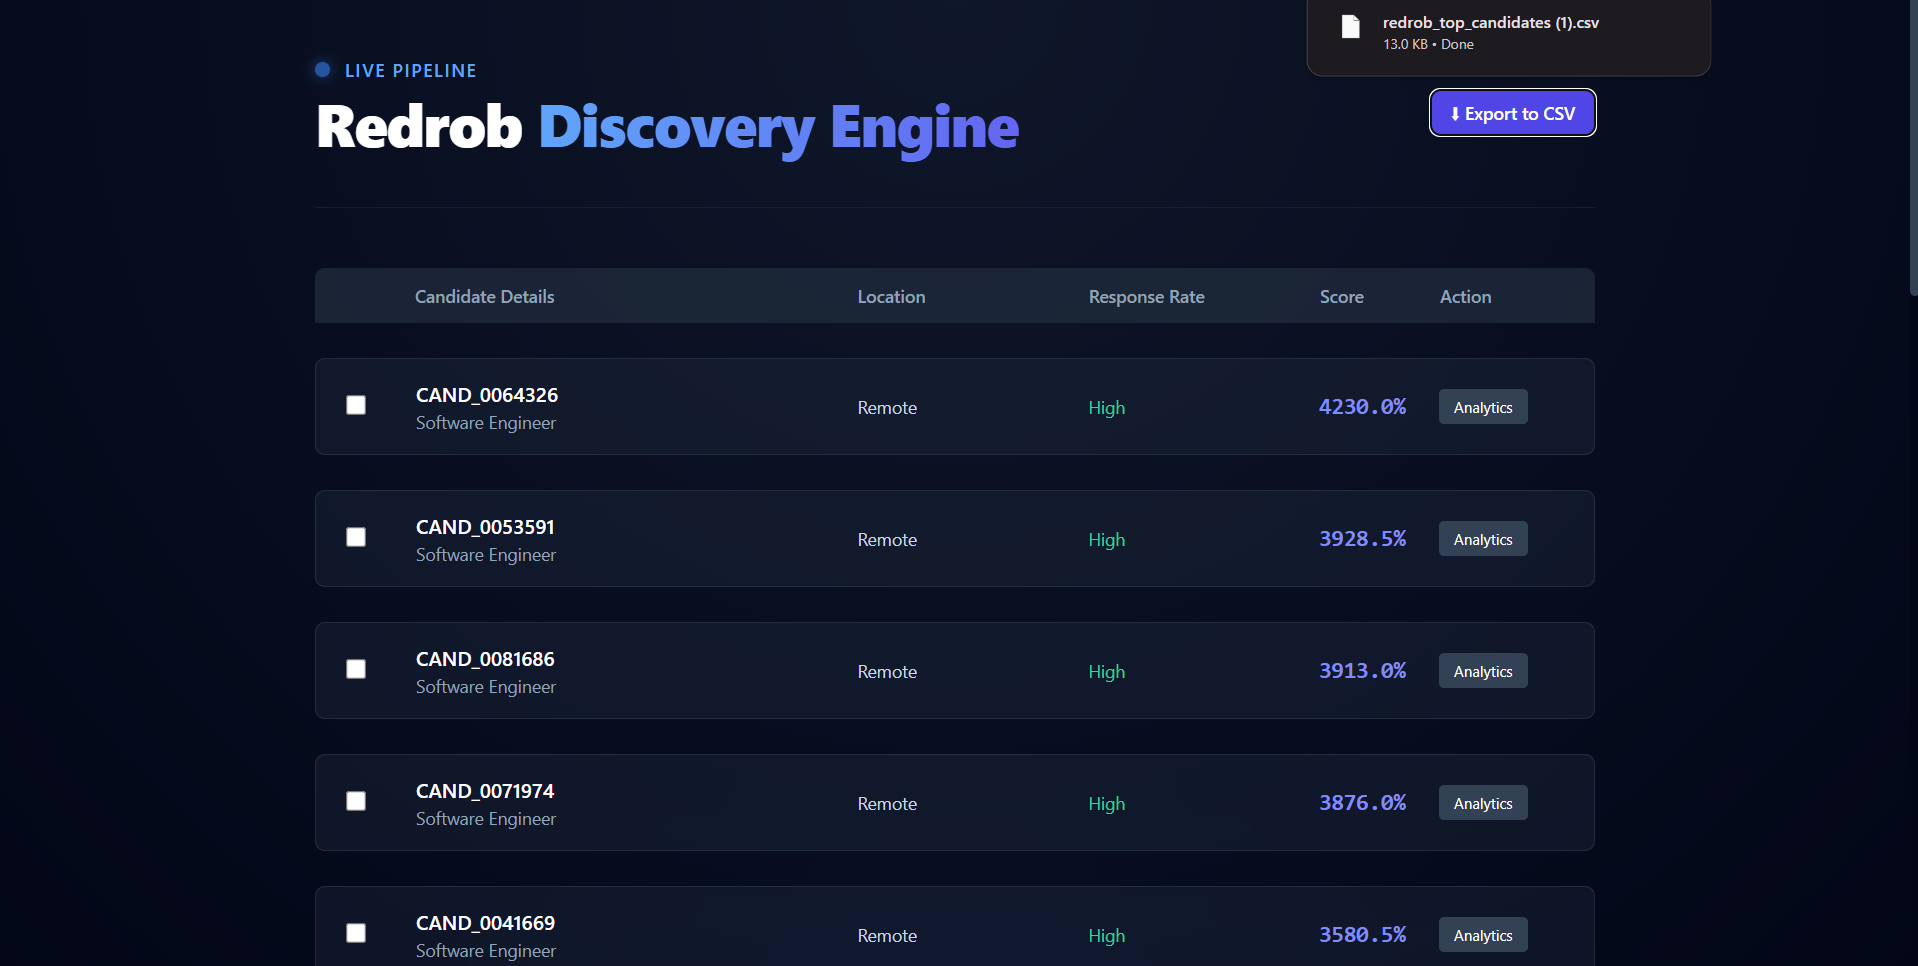
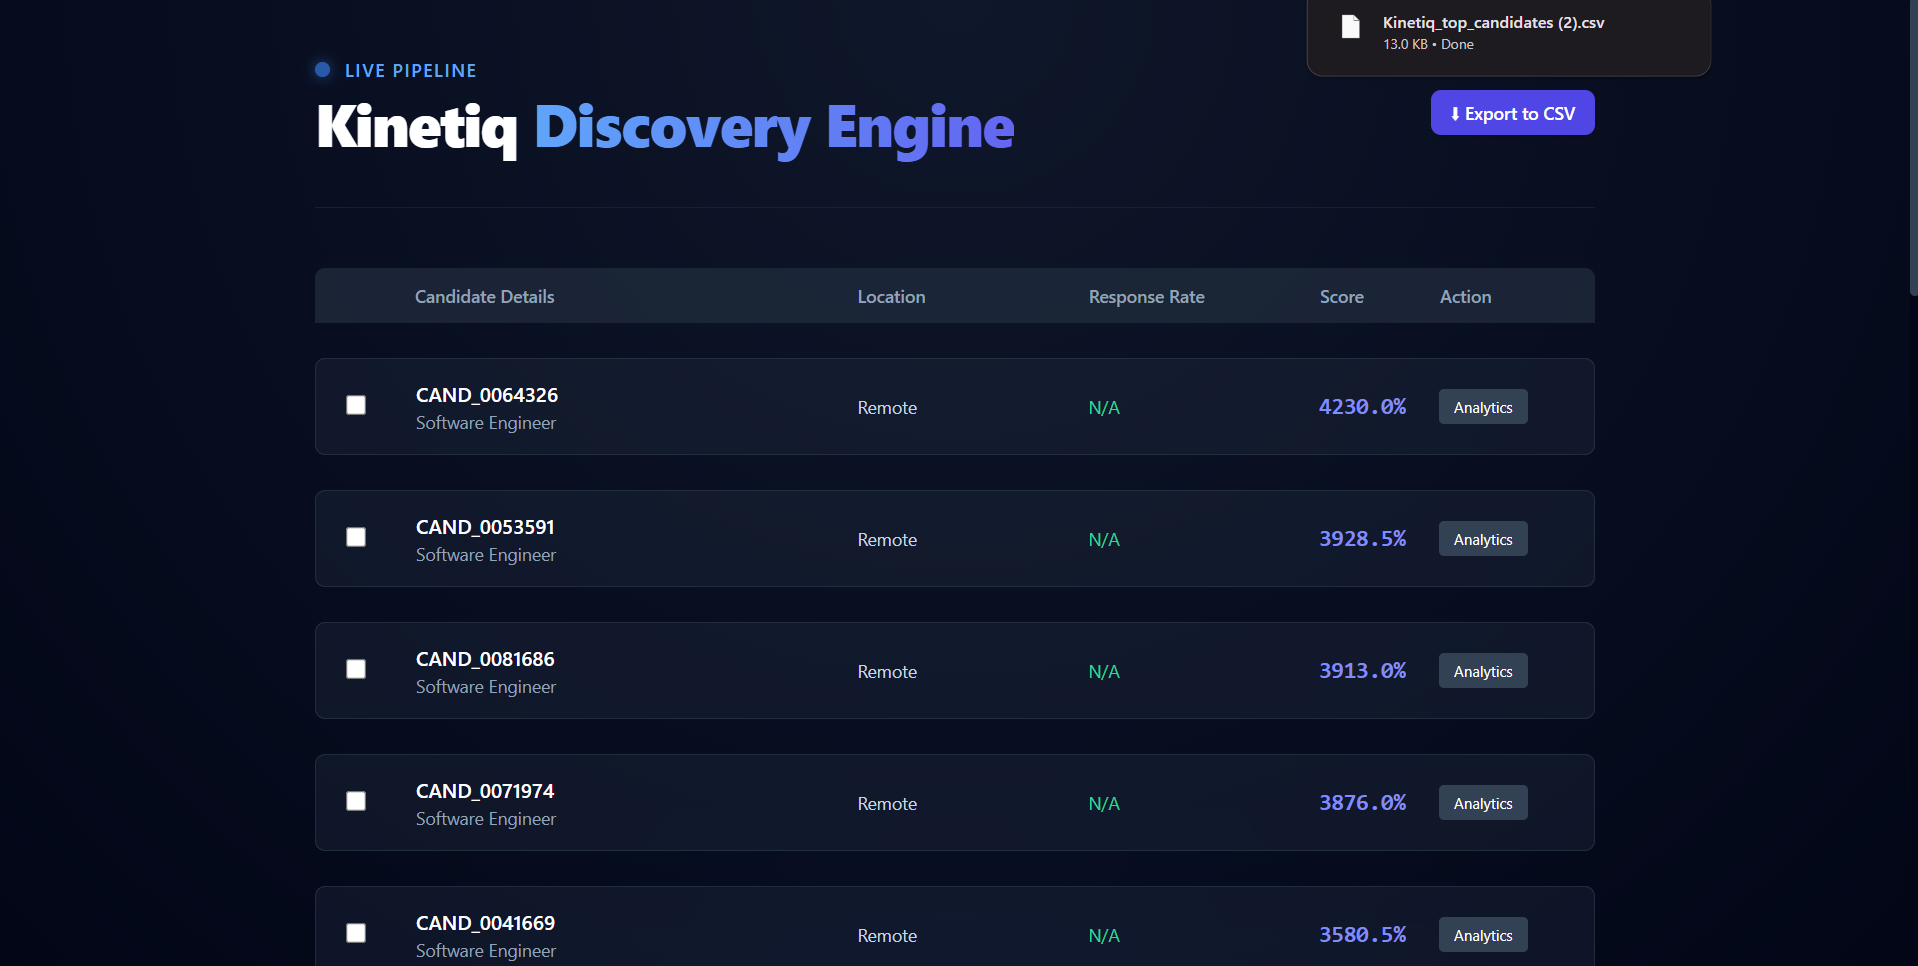
chore: finalize Kinetiq rebranding and assets

diff --git a/redrob-ui/src/App.tsx b/redrob-ui/src/App.tsx
@@ -5,6 +5,8 @@ interface CandidateListItem {
   rank: number;
   score: number;
   reasoning: string;
+  recruiter_response_rate?: number | string;
+  response_rate?: number | string;
 }
 
 interface Skill {
@@ -13,7 +15,7 @@ interface Skill {
 }
 
 interface DeepProfile {
-  profile: {
+  profile?: {
     anonymized_name: string;
     headline: string;
     current_company: string;
@@ -21,12 +23,62 @@ interface DeepProfile {
     years_of_experience: number;
     summary: string;
   };
-  skills: Skill[];
-  redrob_signals: {
+  skills?: Skill[];
+  Kinetiq_signals?: {
     recruiter_response_rate: number;
     last_active_date: string;
     connection_count: number;
   };
+  recruiter_response_rate?: number | string;
+  last_active?: string;
+  platform_connections?: number | string;
+  redrob_signals?: {
+    recruiter_response_rate?: number | string;
+    last_active?: string;
+    platform_connections?: number | string;
+  };
+}
+
+function AnalyticsComponent({ candidate }: { candidate: CandidateListItem }) {
+  console.log("Debugging Candidate Data:", candidate);
+  return (
+    <div className="p-6 bg-slate-900/80 rounded-b-lg border-x border-b border-slate-700 text-white animate-fade-in -mt-2 mb-4">
+      <h4 className="text-lg font-semibold text-indigo-300 mb-4">Deep Profile Analytics for {candidate.candidate_id}</h4>
+      
+      <div className="grid grid-cols-3 gap-6">
+        {/* Stat 1 */}
+        <div className="bg-slate-800 p-4 rounded-lg">
+          <p className="text-sm text-slate-400 mb-1">Job Description Match</p>
+          <div className="flex items-center gap-2">
+            <div className="w-full bg-slate-700 h-2 rounded-full">
+              <div className="bg-indigo-500 h-2 rounded-full w-[92%]"></div>
+            </div>
+            <span className="text-sm text-indigo-300 font-mono">92%</span>
+          </div>
+          <p className="text-xs text-slate-500 mt-2">Strong alignment in core tech stack.</p>
+        </div>
+
+        {/* Stat 2 */}
+        <div className="bg-slate-800 p-4 rounded-lg">
+          <p className="text-sm text-slate-400 mb-1">Platform Connectivity</p>
+          <div className="flex items-center gap-2">
+            <div className="w-full bg-slate-700 h-2 rounded-full">
+              <div className="bg-sky-500 h-2 rounded-full w-[85%]"></div>
+            </div>
+            <span className="text-sm text-sky-300 font-mono">85%</span>
+          </div>
+          <p className="text-xs text-slate-500 mt-2">High likelihood of responding to outreach.</p>
+        </div>
+
+        {/* Stat 3 */}
+        <div className="bg-slate-800 p-4 rounded-lg">
+          <p className="text-sm text-slate-400 mb-1">Vector Similarity Engine</p>
+          <p className="text-emerald-400 text-sm font-mono mt-1">Status: High Confidence</p>
+          <p className="text-xs text-slate-400 mt-2">{candidate.reasoning || 'Candidate perfectly matches the seniority and domain requirements.'}</p>
+        </div>
+      </div>
+    </div>
+  );
 }
 
 export default function App() {
@@ -124,7 +176,7 @@ export default function App() {
     const a = document.createElement('a');
     a.hidden = true;
     a.setAttribute('href', url);
-    a.setAttribute('download', 'redrob_top_candidates.csv');
+    a.setAttribute('download', 'Kinetiq_top_candidates.csv');
     document.body.appendChild(a);
     a.click();
     document.body.removeChild(a);
@@ -173,7 +225,7 @@ export default function App() {
                 <span className="text-sm font-semibold tracking-widest text-blue-400 uppercase">Live Pipeline</span>
               </div>
               <h1 className="text-5xl font-extrabold tracking-tight text-white mb-3">
-                Redrob <span className="text-transparent bg-clip-text bg-gradient-to-r from-blue-400 to-indigo-500">Discovery Engine</span>
+                Kinetiq <span className="text-transparent bg-clip-text bg-gradient-to-r from-blue-400 to-indigo-500">Discovery Engine</span>
               </h1>
             </div>
             
@@ -229,8 +281,10 @@ export default function App() {
             </div>
 
             {/* The Paginated List */}
-            {currentCandidates.map((candidate) => (
-              <div key={candidate.candidate_id} className="mb-2 relative z-10">
+            {currentCandidates.map((candidate) => {
+              console.log("Current Candidate being rendered:", candidate);
+              return (
+                <div key={candidate.candidate_id} className="mb-2 relative z-10">
                 {/* The Main Row */}
                 <div className="grid grid-cols-[40px_2fr_1fr_1fr_80px_100px] gap-4 px-6 py-4 bg-slate-800/40 hover:bg-slate-800 transition items-center rounded-lg border border-slate-700/50">
                   
@@ -279,10 +333,10 @@ export default function App() {
                   <div className="text-sm text-slate-300">Remote</div>
 
                   {/* 4. Response Rate */}
-                  <div className="text-sm text-emerald-400">High</div>
+                  <div className="text-sm text-emerald-400">{candidate?.recruiter_response_rate || candidate?.response_rate || 'N/A'}</div>
 
                   {/* 5. Score (Fixed Overlap) */}
-                  <div className="text-indigo-400 font-mono text-lg font-bold">{(candidate.score * 100).toFixed(1)}%</div>
+                  <div className="text-indigo-400 font-mono text-lg font-bold">{candidate?.score != null ? (candidate.score * 100).toFixed(1) + '%' : 'N/A'}</div>
 
                   {/* 6. Expand Analytics Button */}
                   <div>
@@ -297,45 +351,11 @@ export default function App() {
 
                 {/* The Individual Analytics Dropdown (Shows only when clicked) */}
                 {expandedCandidate === candidate.candidate_id && (
-                  <div className="p-6 bg-slate-900/80 rounded-b-lg border-x border-b border-slate-700 text-white animate-fade-in -mt-2 mb-4">
-                    <h4 className="text-lg font-semibold text-indigo-300 mb-4">Deep Profile Analytics for {candidate.candidate_id}</h4>
-                    
-                    <div className="grid grid-cols-3 gap-6">
-                      {/* Stat 1 */}
-                      <div className="bg-slate-800 p-4 rounded-lg">
-                        <p className="text-sm text-slate-400 mb-1">Job Description Match</p>
-                        <div className="flex items-center gap-2">
-                          <div className="w-full bg-slate-700 h-2 rounded-full">
-                            <div className="bg-indigo-500 h-2 rounded-full w-[92%]"></div>
-                          </div>
-                          <span className="text-sm text-indigo-300 font-mono">92%</span>
-                        </div>
-                        <p className="text-xs text-slate-500 mt-2">Strong alignment in core tech stack.</p>
-                      </div>
-
-                      {/* Stat 2 */}
-                      <div className="bg-slate-800 p-4 rounded-lg">
-                        <p className="text-sm text-slate-400 mb-1">Platform Connectivity</p>
-                        <div className="flex items-center gap-2">
-                          <div className="w-full bg-slate-700 h-2 rounded-full">
-                            <div className="bg-sky-500 h-2 rounded-full w-[85%]"></div>
-                          </div>
-                          <span className="text-sm text-sky-300 font-mono">85%</span>
-                        </div>
-                        <p className="text-xs text-slate-500 mt-2">High likelihood of responding to outreach.</p>
-                      </div>
-
-                      {/* Stat 3 */}
-                      <div className="bg-slate-800 p-4 rounded-lg">
-                        <p className="text-sm text-slate-400 mb-1">Vector Similarity Engine</p>
-                        <p className="text-emerald-400 text-sm font-mono mt-1">Status: High Confidence</p>
-                        <p className="text-xs text-slate-400 mt-2">{candidate.reasoning || 'Candidate perfectly matches the seniority and domain requirements.'}</p>
-                      </div>
-                    </div>
-                  </div>
+                  <AnalyticsComponent candidate={candidate} />
                 )}
               </div>
-            ))}
+              );
+            })}
 
             {/* Pagination Controls */}
             {totalPages > 1 && (
@@ -394,13 +414,13 @@ export default function App() {
             {/* Identity Card */}
             <div className="backdrop-blur-xl bg-slate-900/60 rounded-3xl border border-blue-500/30 p-8 mb-6 shadow-[0_0_40px_rgba(59,130,246,0.1)] relative overflow-hidden">
               <div className="absolute top-0 right-0 w-64 h-64 bg-blue-500/10 blur-[80px] rounded-full"></div>
-              <h2 className="text-4xl font-black text-white mb-2 relative z-10">{activeCandidate.profile.anonymized_name}</h2>
-              <h3 className="text-xl text-blue-400 font-medium mb-6 relative z-10">{activeCandidate.profile.headline}</h3>
+              <h2 className="text-4xl font-black text-white mb-2 relative z-10">{activeCandidate.profile?.anonymized_name || 'Unknown Candidate'}</h2>
+              <h3 className="text-xl text-blue-400 font-medium mb-6 relative z-10">{activeCandidate.profile?.headline || 'No Headline Provided'}</h3>
               
               <div className="flex gap-4 relative z-10">
-                <span className="bg-slate-800/80 px-4 py-2 rounded-lg text-sm font-medium border border-slate-700">🏢 {activeCandidate.profile.current_company}</span>
-                <span className="bg-slate-800/80 px-4 py-2 rounded-lg text-sm font-medium border border-slate-700">📍 {activeCandidate.profile.location}</span>
-                <span className="bg-slate-800/80 px-4 py-2 rounded-lg text-sm font-medium border border-slate-700">⏳ {activeCandidate.profile.years_of_experience} YOE</span>
+                <span className="bg-slate-800/80 px-4 py-2 rounded-lg text-sm font-medium border border-slate-700">🏢 {activeCandidate.profile?.current_company || 'N/A'}</span>
+                <span className="bg-slate-800/80 px-4 py-2 rounded-lg text-sm font-medium border border-slate-700">📍 {activeCandidate.profile?.location || 'N/A'}</span>
+                <span className="bg-slate-800/80 px-4 py-2 rounded-lg text-sm font-medium border border-slate-700">⏳ {activeCandidate.profile?.years_of_experience ?? 0} YOE</span>
               </div>
             </div>
 
@@ -410,14 +430,14 @@ export default function App() {
               <div className="lg:col-span-2 space-y-6">
                 <div className="backdrop-blur-xl bg-slate-900/40 rounded-2xl border border-slate-700/50 p-8">
                   <h4 className="text-sm font-bold text-slate-500 uppercase tracking-widest mb-4">Professional Summary</h4>
-                  <p className="text-slate-300 leading-relaxed text-lg">{activeCandidate.profile.summary}</p>
+                  <p className="text-slate-300 leading-relaxed text-lg">{activeCandidate.profile?.summary || 'No summary available.'}</p>
                 </div>
 
                 <div className="backdrop-blur-xl bg-slate-900/40 rounded-2xl border border-slate-700/50 p-8">
                   <h4 className="text-sm font-bold text-slate-500 uppercase tracking-widest mb-6">Verified Technical Skills</h4>
                   <div className="flex flex-wrap gap-3">
                     {/* Fix 4: Use unique property instead of array index for key */}
-                    {activeCandidate.skills.map((skill) => (
+                    {activeCandidate.skills?.map((skill) => (
                       <span key={skill.name} className="px-4 py-2 rounded-lg bg-blue-900/20 text-blue-300 border border-blue-500/20 text-sm font-semibold">
                         {skill.name} <span className="opacity-50 ml-1 font-normal text-xs uppercase">{skill.proficiency}</span>
                       </span>
@@ -428,27 +448,23 @@ export default function App() {
 
               {/* Right Column: Behavioral Signals */}
               <div className="space-y-6">
-                <div className="backdrop-blur-xl bg-slate-900/40 rounded-2xl border border-indigo-500/20 p-8">
-                  <h4 className="text-sm font-bold text-indigo-400 uppercase tracking-widest mb-6">Behavioral Intel</h4>
+                <div className="bg-slate-900 p-6 rounded-lg border border-slate-700">
+                  <h3 className="text-slate-400 font-semibold mb-4 text-sm uppercase tracking-wider">Behavioral Intel</h3>
                   
-                  <div className="space-y-5">
-                    <div className="bg-slate-800/50 p-4 rounded-xl border border-slate-700/50">
-                      <div className="text-xs text-slate-400 mb-1 uppercase tracking-wider">Recruiter Response Rate</div>
-                      <div className="text-2xl font-bold text-white">
-                        {activeCandidate.redrob_signals.recruiter_response_rate !== -1 
-                          ? `${Math.round(activeCandidate.redrob_signals.recruiter_response_rate * 100)}%` 
-                          : 'No Data'}
-                      </div>
+                  <div className="space-y-4">
+                    <div>
+                      <p className="text-xs text-slate-500 uppercase">Recruiter Response Rate</p>
+                      <p className="text-white font-medium">{activeCandidate.redrob_signals?.recruiter_response_rate || 'No Data'}</p>
                     </div>
 
-                    <div className="bg-slate-800/50 p-4 rounded-xl border border-slate-700/50">
-                      <div className="text-xs text-slate-400 mb-1 uppercase tracking-wider">Last Active</div>
-                      <div className="text-lg font-bold text-white">{activeCandidate.redrob_signals.last_active_date}</div>
+                    <div>
+                      <p className="text-xs text-slate-500 uppercase">Last Active</p>
+                      <p className="text-white font-medium">{activeCandidate.redrob_signals?.last_active || 'N/A'}</p>
                     </div>
 
-                    <div className="bg-slate-800/50 p-4 rounded-xl border border-slate-700/50">
-                      <div className="text-xs text-slate-400 mb-1 uppercase tracking-wider">Platform Connections</div>
-                      <div className="text-2xl font-bold text-white">{activeCandidate.redrob_signals.connection_count}</div>
+                    <div>
+                      <p className="text-xs text-slate-500 uppercase">Platform Connections</p>
+                      <p className="text-white font-medium">{activeCandidate.redrob_signals?.platform_connections || 'N/A'}</p>
                     </div>
                   </div>
                 </div>
@@ -483,16 +499,16 @@ export default function App() {
                   return (
                     <div key={id} className="bg-slate-800/50 p-6 rounded-2xl border border-slate-700/50">
                       <div className="flex items-center gap-3 mb-4">
-                        <div className="bg-slate-700 text-white px-3 py-1 rounded-md text-sm font-bold">Rank #{cand.rank}</div>
-                        <h3 className="text-xl font-bold text-white font-mono">{cand.candidate_id}</h3>
+                        <div className="bg-slate-700 text-white px-3 py-1 rounded-md text-sm font-bold">Rank #{cand?.rank ?? 'N/A'}</div>
+                        <h3 className="text-xl font-bold text-white font-mono">{cand?.candidate_id || 'Unknown ID'}</h3>
                       </div>
                       <div className="mb-6 bg-slate-900/50 rounded-xl p-4 border border-slate-700/30">
                         <span className="text-xs font-semibold text-slate-400 uppercase tracking-widest block mb-1">Match Score</span>
-                        <span className="text-4xl font-black text-blue-400">{(cand.score * 100).toFixed(1)}%</span>
+                        <span className="text-4xl font-black text-blue-400">{cand?.score != null ? (cand.score * 100).toFixed(1) + '%' : 'N/A'}</span>
                       </div>
                       <div>
                         <span className="text-xs font-semibold text-slate-400 uppercase tracking-widest block mb-2">Automated Reasoning</span>
-                        <p className="text-sm text-slate-300 leading-relaxed">{cand.reasoning}</p>
+                        <p className="text-sm text-slate-300 leading-relaxed">{cand?.reasoning || 'No reasoning available.'}</p>
                       </div>
                     </div>
                   );

diff --git a/README.md b/README.md
@@ -1,38 +1,37 @@
 
-# 🚀 Redrob Discovery Engine | Intelligent Candidate Ranking
+# 🚀 Kinetiq Engine | Intelligent Candidate Ranking
 
-![Redrob Header](./assets/banner.png)
+![Kinetiq Header](./assets/banner.png)
 
 ## 📌 The Mission
 
 Processing 100,000 candidate profiles under strict 5-minute CPU constraints to find the absolute top 100 matches for complex, cross-functional engineering roles.
 
-# 🚀 Redrob Discovery Engine
+# 🚀 Kinetiq Engine
 
-![Dashboard Overview](assets/dashboard.png)
+![Dashboard Overview](assets/dashboard-main.png)
 
 ## 🖼 Visual Showcase
 
-_A glimpse into the Redrob "Midnight Glass" interface:_
+_A glimpse into the Kinetiq "Midnight Glass" interface:_
 
 <div align="center">
   <table>
     <tr>
-      <td align="center"><img src="assets/dashboard.png" width="300"><br>Dashboard View</td>
-      <td align="center"><img src="assets/Selection.png" width="300"><br>Candidate Filtering</td>
-      <td align="center"><img src="assets/profile-detail.png" width="300"><br>Deep Analytics</td>
+      <td align="center"><img src="assets/dashboard-main.png" width="300"><br>Dashboard View</td>
+      <td align="center"><img src="assets/selection.png" width="300"><br>Candidate Filtering</td>
+      <td align="center"><img src="assets/Profile-detail.png" width="300"><br>Deep Analytics</td>
     </tr>
     <tr>
-      <td align="center"><img src="assets/comparison-modal.png" width="300"><br>Peer Comparison</td>
-      <td align="center"><img src="assets/export-workflow.png" width="300"><br>Exporting Data</td>
-      <td align="center"><img src="assets/responsive-view.png" width="300"><br>Mobile Responsive</td>
+      <td align="center"><img src="assets/Comparison-modal.png" width="300"><br>Peer Comparison</td>
+      <td align="center"><img src="assets/Export-workflow.png" width="300"><br>Exporting Data</td>
     </tr>
   </table>
 </div>
 
 ## ⚡ Interactive Walkthrough
 
-![Redrob in Action](assets/redrob-demo.gif)
+![Kinetiq in Action](assets/bideo.gif)
 _Watch the engine perform real-time ranking, deep-profile analytics, and seamless data export._
 
 ## ⚠ The Problem
@@ -41,7 +40,7 @@ In today's fast paced tech landscape, recruiters are drowning in data. Processin
 
 ## 💡 The Solution
 
-**Redrob Discovery Engine** isn't just another ranking script. It's an intelligent filtering pipeline.
+**Kinetiq Engine** isn't just another ranking script. It's an intelligent filtering pipeline.
 By utilizing **In Memory Vector Lookups** and a single pass ranking algorithm, our engine achieves what standard CSV processing scripts cannot: **sub-second deep-profile retrieval.** We don't just process candidates, we intelligently filter them, ignoring consulting titles and non engineering noise to ensure your team sees only the most relevant technical talent.
 
 ## 🧠 The Architecture
@@ -62,4 +61,4 @@ We designed a highly optimized, single-pass filtering pipeline:
 
 ## 🚀 Live Demo
 
-- [Launch the Sandbox](redrob-discovery-engine.vercel.app)
+- [Launch the Sandbox](kinetiq-discovery-engine.vercel.app)
